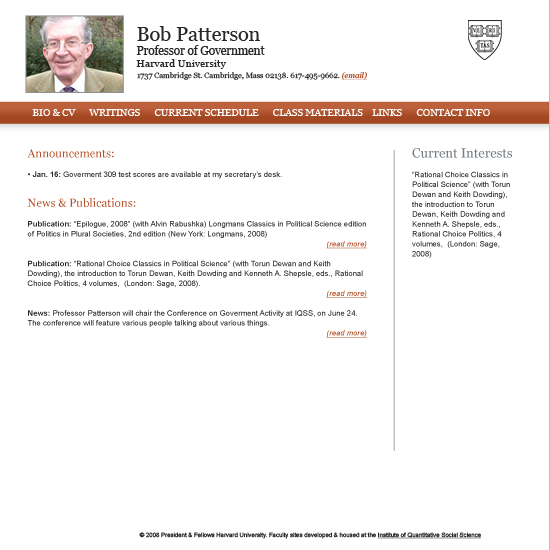
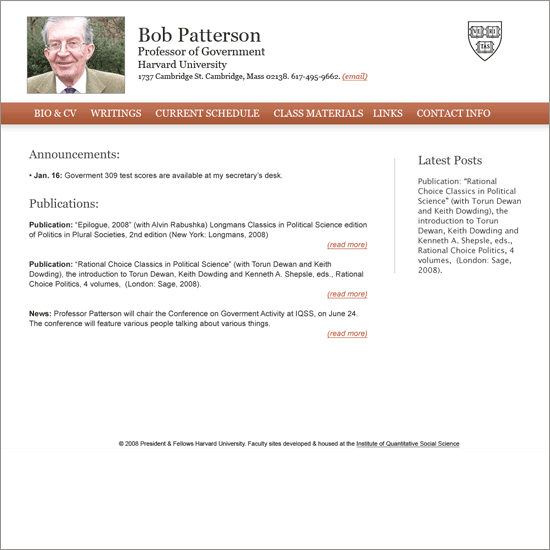
adding flavors to theme 03

Changed region(s): [[0.0, 0.0, 1.0, 1.0], [0.0309, 0.2782, 0.68, 0.6182], [0.8345, 0.0309, 0.9273, 0.1236]]

diff --git a/sites/all/themes/scholar_theme_03/scholar-theme-03-c.css b/sites/all/themes/scholar_theme_03/scholar-theme-03-c.css
@@ -1,0 +1,18 @@
+/* Strawberry*/
+
+body {
+  background:#911f1e;
+  }
+
+#wrapper {
+  background-image: url(images/body-bg-strawberry.png);
+  }
+
+body.navbar-off #wrapper {
+  background-image: url(images/body-bg-alt-strawberry.png);
+  }
+
+
+a, a:visited {
+  color: #892322;
+  }

diff --git a/sites/all/themes/scholar_theme_03/scholar-theme-03-a.css b/sites/all/themes/scholar_theme_03/scholar-theme-03-a.css
@@ -1,0 +1,17 @@
+/* Emerald version*/
+
+body {
+  background:#497457;
+  }
+
+#wrapper {
+  background-image: url(images/body-bg-emerald.png);
+  }
+
+body.navbar-off #wrapper {
+  background-image: url(images/body-bg-alt-emerald.png);
+  }
+
+a, a:visited {
+  color: #496f55;
+  }

diff --git a/sites/all/themes/scholar_theme_03/scholar-theme-03-b.css b/sites/all/themes/scholar_theme_03/scholar-theme-03-b.css
@@ -1,0 +1,17 @@
+/* Pale Blue*/
+
+body {
+  background:#a0aebe;
+  }
+
+#wrapper {
+  background-image: url(images/body-bg-paleblue.png);
+  }
+
+body.navbar-off #wrapper {
+  background-image: url(images/body-bg-alt-paleblue.png);
+  }
+
+a, a:visited {
+  color: #658ab2;
+  }

diff --git a/sites/all/themes/scholar_theme_03/scholar-theme-03-e.css b/sites/all/themes/scholar_theme_03/scholar-theme-03-e.css
@@ -1,0 +1,17 @@
+/* Brown*/
+
+body {
+  background:#705d25;
+  }
+
+#wrapper {
+  background-image: url(images/body-bg-brown.png);
+  }
+
+body.navbar-off #wrapper {
+  background-image: url(images/body-bg-alt-brown.png);
+  }
+
+a, a:visited {
+  color: #705d25;
+  }

diff --git a/sites/all/themes/scholar_theme_03/scholar-theme-03-d.css b/sites/all/themes/scholar_theme_03/scholar-theme-03-d.css
@@ -1,0 +1,17 @@
+/* Sage*/
+
+body {
+  background:#8b957c;
+  }
+
+#wrapper {
+  background-image: url(images/body-bg-sage.png);
+  }
+
+body.navbar-off #wrapper {
+  background-image: url(images/body-bg-alt-sage.png);
+  }
+
+a, a:visited {
+  color: #627840;
+  }
